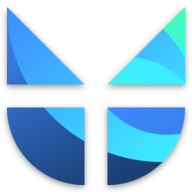
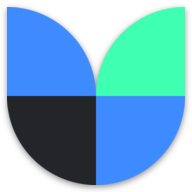
Match Figma mockups, responsive Doodle using material-ui/useMediaQuery

diff --git a/pages/artwork/[id].tsx b/pages/artwork/[id].tsx
@@ -2,7 +2,7 @@ import React, { useState, useEffect } from 'react';
 import Head from 'next/head';
 import { useRouter } from 'next/router';
 import randomstring from 'randomstring';
-import queryString from 'query-string';
+import useMediaQuery from '@material-ui/core/useMediaQuery';
 import Layout from 'components/Layout';
 import EditArtworkHeader from 'components/edit-artwork-page/EditArtworkHeader';
 import ButtonSelectGroup from 'components/ButtonSelectGroup';
@@ -31,11 +31,15 @@ export default function EditArtworkPage({ artwork }) {
   const [styleCode, setStyleCode] = useState('');
   const [doodleCode, setDoodleCode] = useState('');
   const [seed, setSeed] = useState('0000');
-  const [width, setWidth] = useState(360);
-  const [height, setHeight] = useState(540);
   const doodleRef = React.createRef();
 
   const router = useRouter();
+
+  const isScreenXS = useMediaQuery('(max-width: 747.99px)');
+  const width = isScreenXS ? 240 : 360;
+  const height = width * 1.5;
+
+  console.log(`isScreenXS=${isScreenXS}, ${width}, ${height}`);
 
   useEffect(() => {
     if (
@@ -67,7 +71,7 @@ export default function EditArtworkPage({ artwork }) {
 
   useEffect(() => {
     updateDoodleCode();
-  }, [palette, optionValues]);
+  }, [isScreenXS, palette, optionValues]);
 
   // Update URL query parameters if necessary
   useEffect(() => {

diff --git a/components/main-page/Hero.module.scss b/components/main-page/Hero.module.scss
@@ -39,8 +39,8 @@
   }
 
   .heroText {
-    font-size: 3.2rem;
-    line-height: 1.5;
+    font-size: 3.4rem;
+    line-height: 1.3;
     font-weight: 300;
     color: white;
   }
@@ -70,7 +70,7 @@
     }
 
     .heroText {
-      font-size: 2.6rem;
+      font-size: 3rem;
     }
   }
 }
@@ -91,7 +91,7 @@
     }
 
     .heroText {
-      font-size: 2.2rem;
+      font-size: 2.8rem;
     }
   }
 }
@@ -99,11 +99,11 @@
 @include media-breakpoint-down(xs) {
   .heroSection {
     .heroContent {
-      padding: 4rem;
+      padding: 4rem 0;
     }
 
     .heroText {
-      font-size: 1.7rem;
+      font-size: 2.6rem;
     }
   }
 }

diff --git a/components/edit-artwork-page/EditArtworkHeader.module.scss b/components/edit-artwork-page/EditArtworkHeader.module.scss
@@ -30,6 +30,7 @@
   outline: none;
 
   @include media-breakpoint-down(sm) {
+    font-size: 0.95rem;
     padding: 0.7rem 1rem;
   }
 
@@ -46,12 +47,12 @@
 
   &.btnExport {
     color: white;
-    background-color: #0a6cff;
+    background-color: $blue-high-contrast;
     margin-left: 0.6rem;
 
     &:hover {
-      background-color: color.scale(#0a6cff, $lightness: 10%);
-      box-shadow: 0 0 0.75rem rgba(#0a6cff, 20%);
+      background-color: color.scale($blue-high-contrast, $lightness: 10%);
+      box-shadow: 0 0 0.75rem rgba($blue-high-contrast, 20%);
     }
   }
 

diff --git a/components/main-page/MakeYourArt.module.scss b/components/main-page/MakeYourArt.module.scss
@@ -1,3 +1,4 @@
+@use 'sass:color';
 @import 'styles/variables';
 @import 'styles/mixins';
 
@@ -18,6 +19,20 @@
       font-size: 2.33rem;
       line-height: 1.4;
       max-width: 640px;
+    }
+  }
+
+  .actionBtn {
+    display: inline-block;
+    padding: 0.8rem 2rem;
+    border: 2px solid white;
+    border-radius: 0.2rem;
+    color: white;
+    background-color: $gray-dark;
+
+    &:hover {
+      box-shadow: 0 0 1rem rgba($gray-dark, 0.5);
+      background-color: color.scale($gray-dark, $lightness: -10%);
     }
   }
 }

diff --git a/components/main-page/MainHeader.tsx b/components/main-page/MainHeader.tsx
@@ -12,7 +12,7 @@ export default function MainHeader() {
             <Link href="/">
               <a className={styles.logoImageWrapper}>
                 <Image
-                  src="/images/logo_tabbied.png"
+                  src="/images/logo_tabbied_v2.svg"
                   alt="Tabbied"
                   layout="fixed"
                   width={52}

diff --git a/pages/select-artwork.tsx b/pages/select-artwork.tsx
@@ -6,10 +6,6 @@ import SelectArtwork from 'components/select-artwork-page/SelectArtwork';
 export default function SelectArtworkPage() {
   return (
     <Layout>
-      <Head>
-        <meta name="viewport" content="width=1600" />
-      </Head>
-
       <PageHeader title="Make your art" />
 
       <SelectArtwork />

diff --git a/components/main-page/MakeYourArt.tsx b/components/main-page/MakeYourArt.tsx
@@ -16,7 +16,7 @@ export default function MakeYourArt() {
               </div>
 
               <Link href="/select-artwork">
-                <a className="btn">Make your art</a>
+                <a className={styles.actionBtn}>Make your art</a>
               </Link>
             </div>
           </Col>

diff --git a/components/PageHeader/PageHeader.module.scss b/components/PageHeader/PageHeader.module.scss
@@ -1,4 +1,5 @@
 @import 'styles/variables';
+@import 'styles/mixins';
 
 .headerSection {
   padding: 1rem 0;
@@ -6,5 +7,13 @@
 
   h1 {
     color: $gray-dark;
+  }
+
+  @include media-breakpoint-down(sm) {
+    .logoImageWrapper {
+      img {
+        width: 2.5rem;
+      }
+    }
   }
 }

diff --git a/components/main-page/MainHeader.module.scss b/components/main-page/MainHeader.module.scss
@@ -29,8 +29,8 @@
     font-size: 1.15rem;
 
     &:hover {
-      color: $gray-medium;
-      border-color: $gray-medium;
+      color: $blue-high-contrast;
+      border-color: $blue-high-contrast;
     }
   }
 }

diff --git a/styles/_variables.scss b/styles/_variables.scss
@@ -10,6 +10,8 @@ $blue-light: #95bfff;
 $blue-medium-ultra-light: #70a8ff;
 $blue-ultra-light: #e9f1ff;
 
+$blue-high-contrast: #0a6cff;
+
 $gray-dark: #232529;
 $gray-medium: #646d7b;
 $gray: #98a0af;

diff --git a/pages/artwork/EditArtworkPage.module.scss b/pages/artwork/EditArtworkPage.module.scss
@@ -66,4 +66,8 @@
 .doodleFrame {
   display: inline-block;
   box-shadow: 16px 16px 32px 0 rgba(0, 0, 0, 0.1);
+
+  @include media-breakpoint-down(sm) {
+    box-shadow: none;
+  }
 }

diff --git a/components/main-page/BuiltBy.module.scss b/components/main-page/BuiltBy.module.scss
@@ -23,7 +23,7 @@
       color: $gray-ultra-light;
 
       &:hover {
-        color: $lime;
+        color: $blue-high-contrast;
       }
     }
   }
